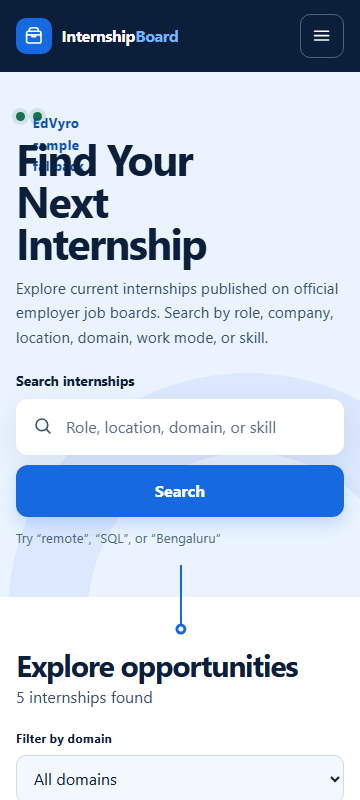
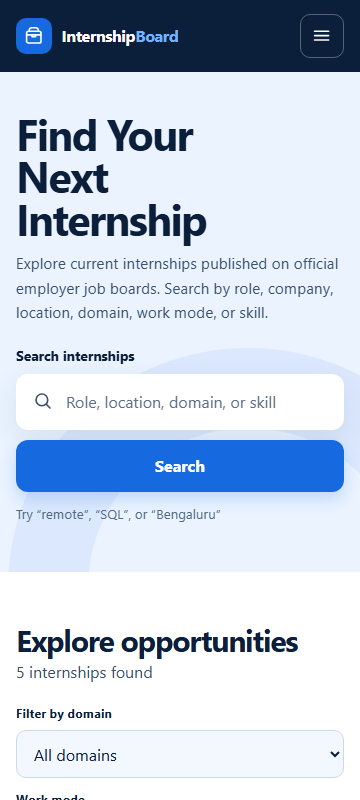
fix: remove overlapping hero ornaments

Changed region(s): [[0.0, 0.125, 0.9778, 0.75], [0.0306, 0.7188, 0.825, 1.0], [0.9167, 0.9375, 0.9472, 1.0]]

diff --git a/css/styles.css b/css/styles.css
@@ -80,8 +80,6 @@ svg { fill: none; stroke: currentColor; stroke-width: 1.8; stroke-linecap: round
 .hero { position: relative; overflow: hidden; padding: clamp(3rem, 8vw, 6.5rem) 0 clamp(4rem, 9vw, 7rem); background: var(--blue-pale); }
 .hero::after { content: ""; position: absolute; right: -8rem; bottom: -16rem; width: 30rem; height: 30rem; border: 5rem solid rgba(23,105,224,.07); border-radius: 50%; pointer-events: none; }
 .hero-grid { position: relative; z-index: 1; display: grid; gap: 2rem; }
-.sample-note { display: flex; align-items: center; gap: .5rem; margin: 0 0 1rem; color: var(--blue-dark); font-size: .84rem; font-weight: 750; letter-spacing: .02em; }
-.sample-note span { width: .55rem; height: .55rem; background: var(--green); border-radius: 50%; box-shadow: 0 0 0 4px rgba(22,115,74,.12); }
 h1, h2, h3, p { margin-top: 0; }
 h1 { max-width: 10ch; margin-bottom: 1rem; font-size: clamp(2.65rem, 9vw, 5.5rem); line-height: .98; letter-spacing: -.04em; text-wrap: balance; }
 .hero-subtitle { max-width: 63ch; margin-bottom: 1.6rem; color: var(--ink-soft); font-size: clamp(1rem, 2vw, 1.16rem); }
@@ -107,8 +105,6 @@ h1 { max-width: 10ch; margin-bottom: 1rem; font-size: clamp(2.65rem, 9vw, 5.5rem
 .summary-disclosure { margin: 1rem 0 0; color: #b9cbe0; font-size: .73rem; line-height: 1.5; }
 
 .results-section { position: relative; padding: 4rem 0 5rem; background: var(--white); }
-.route-line { position: absolute; top: -2rem; left: 50%; width: 2px; height: 4rem; background: var(--blue); }
-.route-line::after { content: ""; position: absolute; bottom: 0; left: 50%; width: .7rem; height: .7rem; background: var(--white); border: 3px solid var(--blue); border-radius: 50%; transform: translate(-50%, 50%); }
 .results-toolbar { display: grid; gap: 1.25rem; margin-bottom: 2rem; }
 .results-toolbar h2 { margin-bottom: .15rem; font-size: clamp(1.85rem, 4vw, 2.6rem); line-height: 1.1; letter-spacing: -.035em; }
 #results-status { margin: 0; color: var(--ink-soft); }

diff --git a/tests/contracts.test.js b/tests/contracts.test.js
@@ -17,6 +17,19 @@ test('HTML exposes required landmarks, labels, controls, and live status', async
   ]) assert.ok(html.includes(fragment), `missing ${fragment}`);
 });
 
+test('hero and results omit the decorative status eyebrow and connector', async () => {
+  const html = await readFile(new URL('../index.html', import.meta.url), 'utf8');
+  const css = await readFile(new URL('../css/styles.css', import.meta.url), 'utf8');
+  const source = await readFile(new URL('../js/app.js', import.meta.url), 'utf8');
+
+  assert.equal(html.includes('sample-note'), false, 'live-status eyebrow should be removed');
+  assert.equal(css.includes('.sample-note'), false, 'live-status eyebrow styles should be removed');
+  assert.equal(html.includes('route-line'), false, 'results connector should be removed');
+  assert.equal(css.includes('.route-line'), false, 'results connector styles should be removed');
+  assert.equal(source.includes('data-source-label'), false, 'script should not reference the removed status label');
+  assert.ok(html.includes('summary-disclosure'), 'official-source disclosure should remain');
+});
+
 test('internship details page exposes an accessible record view and return path', async () => {
   const html = await readFile(new URL('../internship.html', import.meta.url), 'utf8');
   for (const fragment of ['id="detail-title"', 'id="detail-status"', 'id="detail-skills"', 'href="index.html#internships"', 'js/details.js']) {

diff --git a/index.html b/index.html
@@ -35,7 +35,6 @@
     <section class="hero" aria-labelledby="hero-title">
       <div class="shell hero-grid">
         <div class="hero-copy">
-          <p class="sample-note"><span aria-hidden="true"></span> <span id="data-source-label">Loading live official openings</span></p>
           <h1 id="hero-title">Find Your Next Internship</h1>
           <p class="hero-subtitle">Explore current internships published on official employer job boards. Search by role, company, location, domain, work mode, or skill.</p>
           <form id="search-form" class="search-form" role="search">
@@ -67,7 +66,6 @@
 
     <section id="internships" class="results-section" aria-labelledby="results-title">
       <div class="shell">
-        <div class="route-line" aria-hidden="true"><span></span></div>
         <div class="results-toolbar">
           <div>
             <h2 id="results-title">Explore opportunities</h2>

diff --git a/js/app.js b/js/app.js
@@ -241,7 +241,6 @@ async function initializeData() {
     document.querySelector('#domain-total').textContent = String(domains.size);
     document.querySelector('#remote-total').textContent = String(sourceRecords.filter(({ mode }) => mode === 'Remote').length);
     document.querySelector('#openings-total').textContent = String(sourceRecords.reduce((total, { openings }) => total + openings, 0));
-    document.querySelector('#data-source-label').textContent = loaded.meta.live ? 'Live official openings' : 'EdVyro sample fallback';
     document.querySelector('#summary-disclosure').textContent = loaded.meta.live
       ? `Current openings aggregated from ${loaded.meta.boardsAvailable || 'available'} official employer job boards. Always verify requirements on the original posting.`
       : 'Live listings are temporarily unavailable. Showing the five fictional EdVyro records instead.';

diff --git a/docs/superpowers/plans/2026-11-21-remove-hero-ornaments.md b/docs/superpowers/plans/2026-11-21-remove-hero-ornaments.md
@@ -1,0 +1,64 @@
+# Remove Hero Ornaments Implementation Plan
+
+> **For agentic workers:** REQUIRED SUB-SKILL: Use superpowers:subagent-driven-development (recommended) or superpowers:executing-plans to implement this plan task-by-task. Steps use checkbox (`- [ ]`) syntax for tracking.
+
+**Goal:** Remove the overlapping live-status eyebrow, green indicator, and results connector without changing application behavior.
+
+**Architecture:** Delete the two presentation-only nodes from `index.html`, delete their unused selectors from `css/styles.css`, and pin the absence with a markup/style contract test. Existing live-source information remains in the summary card.
+
+**Tech Stack:** Semantic HTML, CSS, Node.js built-in test runner, headless Chrome QA.
+
+**Spec:** `docs/superpowers/specs/2026-11-21-remove-hero-ornaments-design.md`
+
+## Global Constraints
+
+- Preserve all search, filtering, loading, accessibility, and live-data behavior.
+- Do not redesign adjacent hero or results components.
+- Remove unused markup and CSS rather than hiding it.
+
+## Review Focus
+
+- Desktop hero: heading begins cleanly with no overlapping status content.
+- Mobile hero: removal leaves no unexpected blank gap.
+- Results transition: no vertical line or circular endpoint remains.
+- Source disclosure: summary card still identifies official employer boards.
+- Accessibility: landmark and heading structure remain unchanged.
+
+---
+
+### Task 1: Remove the decorative status and connector
+
+**Files:**
+- Modify: `tests/contracts.test.js`
+- Modify: `index.html`
+- Modify: `css/styles.css`
+
+**Interfaces:**
+- Consumes: Existing static DOM and stylesheet selectors.
+- Produces: Hero and results markup with no `.sample-note` or `.route-line` elements or rules.
+
+- [ ] **Step 1: Write the failing regression test**
+
+Add a contract test that asserts `index.html` and `css/styles.css` contain neither `sample-note` nor `route-line`, while `summary-disclosure` remains present.
+
+- [ ] **Step 2: Run the contract test and verify RED**
+
+Run: `node --test tests/contracts.test.js`
+
+Expected: FAIL because both unwanted selectors still exist.
+
+- [ ] **Step 3: Remove the unused markup and styles**
+
+Delete the `.sample-note` paragraph from `index.html`, the `.route-line` node from the results section, and all matching CSS rules and pseudo-element rules.
+
+- [ ] **Step 4: Verify GREEN and responsive rendering**
+
+Run: `npm test`
+
+Run: `npm run test:browser`
+
+Expected: all tests pass, supported viewports have no overflow, and browser console has zero errors.
+
+- [ ] **Step 5: Commit and deploy**
+
+Commit the spec, plan, tests, HTML, and CSS; push `main`; redeploy the Vercel static files; visually verify production at desktop and mobile widths.

diff --git a/docs/superpowers/specs/2026-11-21-remove-hero-ornaments-design.md b/docs/superpowers/specs/2026-11-21-remove-hero-ornaments-design.md
@@ -1,0 +1,24 @@
+# Remove Hero Ornaments
+
+## Intent
+
+Remove the two distracting decorative elements highlighted in the production screenshot so the hero heading and results transition remain clean at every viewport.
+
+## Goals
+
+- Remove the complete live-status eyebrow above the hero heading, including its green indicator, glow, and text.
+- Remove the vertical connector line and circular endpoint above the internship results.
+- Preserve the live-source disclosure in the summary card and preserve all search, filter, loading, and accessibility behavior.
+
+## Non-goals
+
+- No redesign of the hero, summary card, navigation, or results toolbar.
+- No copy or data-source behavior changes.
+
+## Approach
+
+Delete both decorative elements from the HTML and remove their now-unused CSS rules. Repositioning was rejected because neither element adds necessary information, and keeping them would retain responsive collision risk.
+
+## Verification
+
+Add a contract regression asserting that the removed selectors no longer exist, run all automated tests, and inspect desktop and mobile renders for spacing and overflow.
